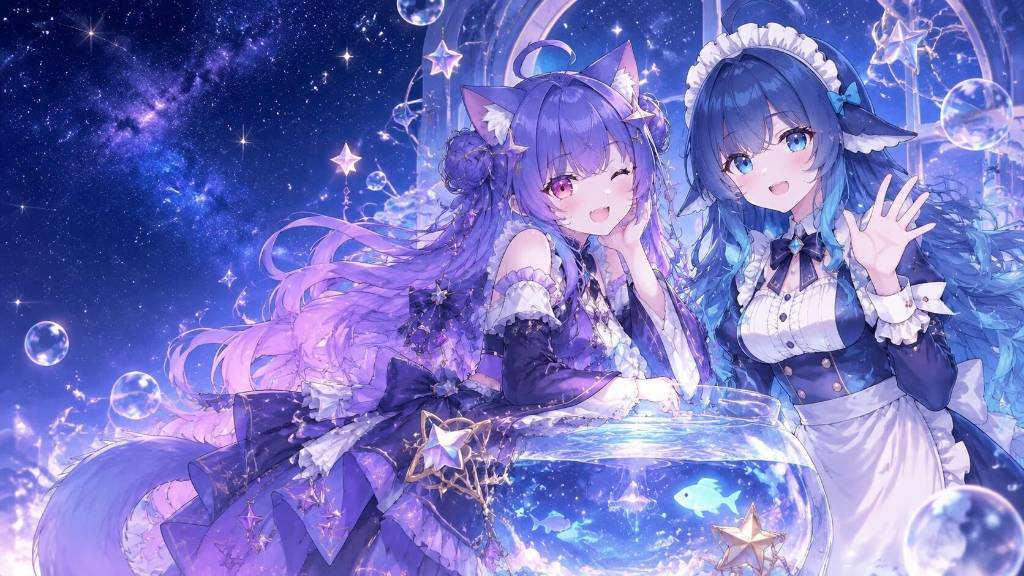
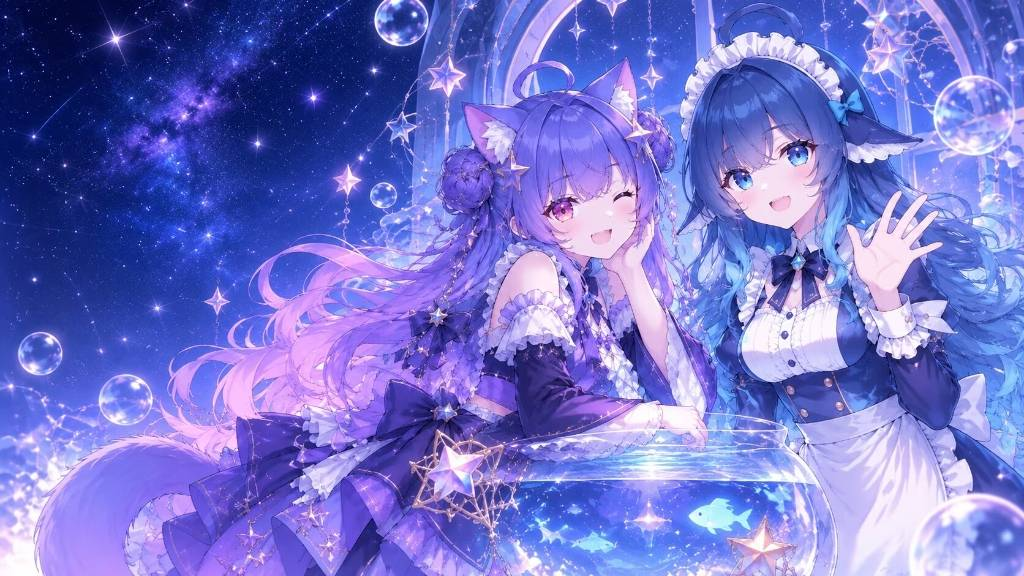
替换首页正比星海主视觉为精修版并更新缓存参数

diff --git a/index.html b/index.html
@@ -43,7 +43,7 @@
 
   <section class="hero-wrap">
     <div class="hero-stage">
-      <img class="hero-bg" id="heroImg" src="img/hero-main.jpg" alt="大肥鱼和捷米奈的星海主视觉" />
+      <img class="hero-bg" id="heroImg" src="img/hero-main.jpg?v=2" alt="大肥鱼和捷米奈的星海主视觉" />
       <div class="hero-veil" aria-hidden="true"></div>
       <div class="hero-copy">
         <div class="k">STARLIGHT AQUARIUM</div>
@@ -113,7 +113,7 @@
     $("welcome").textContent = T.site.welcome;
     let heroMode = localStorage.getItem("fanwen_hero_mode") === "chibi" ? "chibi" : "anime";
     const applyHero = () => {
-      $("heroImg").src = heroMode === "chibi" ? "img/hero-chibi.jpg" : "img/hero-main.jpg";
+      $("heroImg").src = heroMode === "chibi" ? "img/hero-chibi.jpg" : "img/hero-main.jpg?v=2";
       $("heroSwitch").textContent = heroMode === "chibi" ? "✦ 切换正比" : "✦ 切换 Q版";
     };
     $("heroSwitch").addEventListener("click", () => {
